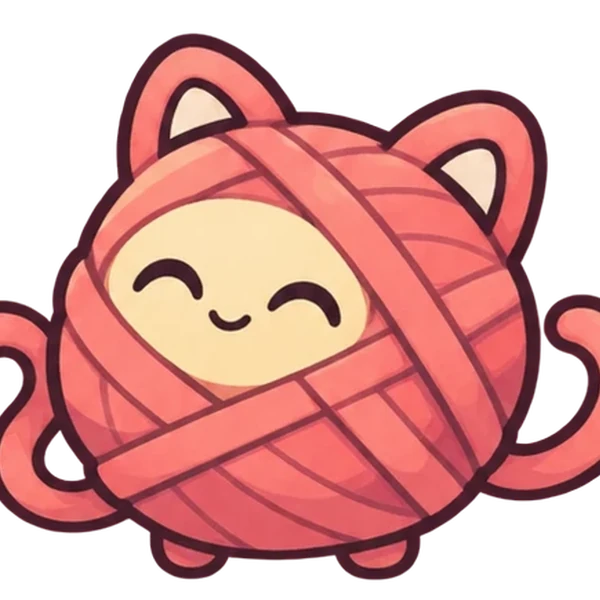
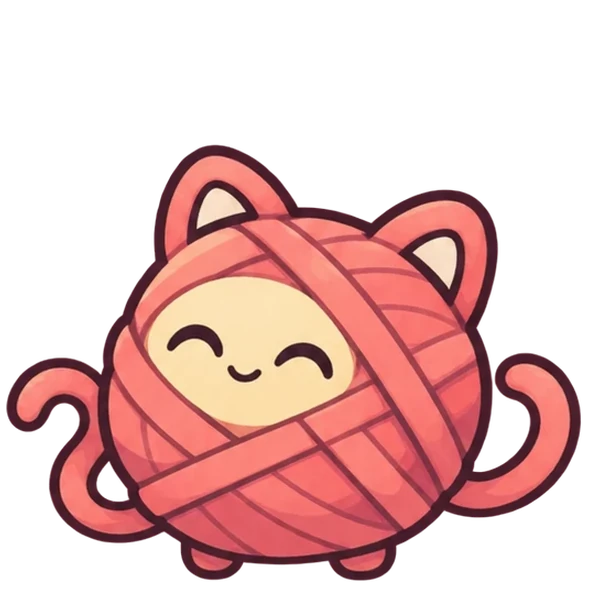
Madeja: recorte entero, paseo en el barrio y animaciones; en el huevo no hay casa ni se construye
Claude-Session: https://claude.ai/code/session_019izKFDyaFB4agFniHN4Ext

diff --git a/src/pantallas/Casa.tsx b/src/pantallas/Casa.tsx
@@ -4,14 +4,14 @@ import type React from 'react'
 // Todo lo que se mueve es código.
 import { useEffect, useLayoutEffect, useRef, useState, type CSSProperties } from 'react'
 import { createPortal } from 'react-dom'
-import { AREAS, COMPANEROS, ESCENAS, HISTORIAS, ORDEN_COMPANEROS, MATERIALES, OBJETOS_CASA, UI, type AreaId, type CompaneroId, type ObjetoCasa } from '../contenido'
+import { AREAS, COMPANEROS, ESCENAS, HISTORIAS, ORDEN_COMPANEROS, MATERIALES, OBJETOS_CASA, PARCELAS, PROPORCION_BARRIO, UI, type AreaId, type CompaneroId, type ObjetoCasa } from '../contenido'
 import { FRASES_VISITA, type Huella } from '../contenido/situaciones'
 import type { Partida } from '../logica/partida'
 import { estadoRincon } from '../logica/reglas'
 import { momentoDelDia } from '../logica/momento'
 import { construido, disponibles, faltan, proyectosDe, proyectosVisibles, puedeConstruir } from '../logica/casa'
 import { crecioSinVer, huevoDisponible, progreso } from '../logica/etapas'
-import { estadoDelMes, faltanParaEclosion, mesActual } from '../logica/meses'
+import { estadoDelMes, faltanParaEclosion, mesActual, mesesDe } from '../logica/meses'
 import { decisionPendiente, dondeGregorio, fraseDeSituacion, huellasEn, microDeHoy, visitante } from '../logica/situaciones'
 import { sfx } from '../sonido'
 import { BotonConstruir } from '../componentes/BotonConstruir'
@@ -39,6 +39,8 @@ import { useJuego } from '../estado/juego'
 import { IconoMaterial } from '../componentes/IconoMaterial'
 
 const ANCHO_HUEVO = 30
+/** Cuánto se acerca el mapa del barrio alrededor de la parcela mientras el vecino está en el huevo (% del ancho de la escena). */
+const ANCHO_NIDO = 330
 /** De dónde sale una nota: el vecino, quien está de visita o un objeto de la casa (su id). */
 type Origen = 'vecino' | 'visita' | string
 const SEGUNDOS_BOCADILLO = 7
@@ -277,6 +279,7 @@ export function Casa({ partida, ahora, dueno, visita = false, onBarrio, onNoveda
   // Mientras no ha salido, en su sitio está el huevo.
   const conHuevo = estado === 'huevo' || (estado === 'naciendo' && (nacer === null || nacer === 'rompiendo'))
   const anchoNox = conHuevo ? ANCHO_HUEVO : ANCHO_NOX[etapaVista]
+  const parcela = PARCELAS[Math.max(0, mesesDe(partida).findIndex((m) => m.companero === DUENO))] ?? PARCELAS[0]
   const altoNox = alto(anchoNox, 1)
 
   // De noche, el tinte se aclara alrededor del vecino: el fondo sigue oscuro y él conserva sus contornos.
@@ -293,11 +296,20 @@ export function Casa({ partida, ahora, dueno, visita = false, onBarrio, onNoveda
   return (
     <main ref={ref} className="escena-vecindario relative mx-auto h-dvh max-w-[430px] overflow-hidden select-none bg-[#c9bf7f]">
       <div className="absolute" style={escenario} onClick={() => setHabla(null)}>
-        <img src={rutaArte(`casa/${DUENO}/fondo`)} alt="" className="absolute inset-0 h-full w-full" draggable={false} />
+        {/* Mientras está en el huevo no hay casa todavía: se ve su parcela del barrio, con la hierba. Al nacer, aparece la casa. */}
+        {conHuevo ? (
+          <div aria-hidden className="absolute inset-0 overflow-hidden">
+            <img src={rutaArte('barrio/mapa')} alt="" draggable={false} className="absolute max-w-none"
+              style={{ width: `${ANCHO_NIDO}%`, left: `${50 - (parcela.x / 100) * ANCHO_NIDO}%`, top: `${NOX.y - 8 - ((parcela.y / 100) * ANCHO_NIDO * ew) / PROPORCION_BARRIO / eh}%` }} />
+            <div className="absolute inset-0 bg-[radial-gradient(ellipse_at_50%_62%,transparent_25%,#2e203055_80%)]" />
+          </div>
+        ) : (
+          <img key="fondo" src={rutaArte(`casa/${DUENO}/fondo`)} alt="" className={`absolute inset-0 h-full w-full ${nacer ? 'animate-aparecer' : ''}`} draggable={false} />
+        )}
         {vivo && !ordenando && <VidaDeCasa vecino={DUENO} />}
 
-        {huellas.map((hu) => <HuellaEnEscena quieta={ordenando} key={hu.id} h={hu} ew={ew} nueva={huellaNueva(partida, hu.id, ahora)} onTocar={(e) => { if (hu.toque) globoEn(e, hu.toque); ajustar((p) => verHuella(p, hu.id)) }} />)}
-        {capas.map(({ o }) => o ? <Objeto key={o.id} o={o} nuevo={recien === o.id} ew={ew} eh={eh} frases={o.id === 'aspiradora' && DUENO === 'nox' ? TOQUES_GREGORIO_EN_NOX : TOQUES_OBJETO[o.id] ?? [o.descripcion]}
+        {!conHuevo && huellas.map((hu) => <HuellaEnEscena quieta={ordenando} key={hu.id} h={hu} ew={ew} nueva={huellaNueva(partida, hu.id, ahora)} onTocar={(e) => { if (hu.toque) globoEn(e, hu.toque); ajustar((p) => verHuella(p, hu.id)) }} />)}
+        {capas.filter(({ o }) => !conHuevo || !o).map(({ o }) => o ? <Objeto key={o.id} o={o} nuevo={recien === o.id} ew={ew} eh={eh} frases={o.id === 'aspiradora' && DUENO === 'nox' ? TOQUES_GREGORIO_EN_NOX : TOQUES_OBJETO[o.id] ?? [o.descripcion]}
           ordenando={ordenando} movible={movible(o)} arrastrando={arrastre?.id === o.id}
           onMover={(x, y) => setArrastre({ id: o.id, ...encajar(o, x, y) })}
           onSoltar={(x, y, punto) => {
@@ -344,7 +356,7 @@ export function Casa({ partida, ahora, dueno, visita = false, onBarrio, onNoveda
             <img src={`/arte/visitantes/${v.quien}.webp`} alt="" draggable={false} className="block w-full" />
           </button>
         ) })()}
-        {deVisita && sitioVisita(DUENO, deVisita) && (() => { const sv = sitioVisita(DUENO, deVisita)!; return (
+        {!conHuevo && deVisita && sitioVisita(DUENO, deVisita) && (() => { const sv = sitioVisita(DUENO, deVisita)!; return (
           <button type="button" aria-label={UI.casa.deVisita(COMPANEROS[deVisita].nombre)}
             onClick={(e) => { e.stopPropagation(); const l = FRASES_VISITA[deVisita] ?? []; if (l.length) globoEn(e, `${COMPANEROS[deVisita].nombre}: «${l[toquesSit % l.length]}»`); setToquesSit((n) => n + 1) }}
             className={`absolute z-10 ${ordenando ? 'pointer-events-none' : ''}`} style={{ left: `${sv.x}%`, top: `${sv.y}%`, width: `${sv.ancho}%`, transform: 'translate(-50%, -100%)' }}>
@@ -368,7 +380,7 @@ export function Casa({ partida, ahora, dueno, visita = false, onBarrio, onNoveda
 
         {/* Luces que laten (por encima del tinte, para que de noche brillen). */}
         <div aria-hidden className="pointer-events-none absolute inset-0 z-20 mix-blend-screen">
-          {LUCES_FONDO.map((l, i) => <Luz key={i} x={l.x} y={l.y} tam={noche ? 34 : 22} color="#ffcf73" retraso={i * 0.7} />)}
+          {!conHuevo && LUCES_FONDO.map((l, i) => <Luz key={i} x={l.x} y={l.y} tam={noche ? 34 : 22} color="#ffcf73" retraso={i * 0.7} />)}
           {objetos.filter((o) => o.luz).map((o) => {
             const a = alto(o.sitio.ancho, o.proporcion)
             const x = o.sitio.x + ((o.luz!.x - 50) / 100) * o.sitio.ancho
@@ -493,7 +505,8 @@ export function Casa({ partida, ahora, dueno, visita = false, onBarrio, onNoveda
         {/* Abajo: la ficha del vecino («i») a la izquierda y construir a la derecha. */}
         <div className="flex items-end justify-between">
           <BotonRedondo etiqueta={UI.casa.verFicha(conHuevo ? UI.casa.huevo : COMPANEROS[DUENO].nombre)} onToque={() => { setFicha(true); ajustar((p) => verFicha(p, DUENO)) }} className="mb-1"><Icono d={ICONOS.info} />{!conHuevo && fichaNueva(partida, DUENO) && <Punto className="absolute -top-0.5 -right-0.5" />}</BotonRedondo>
-          <BotonConstruir etiqueta={UI.casa.construir} listos={listos} onToque={() => setHoja(true)} />
+          {/* Sin casa todavía (en el huevo), no hay nada que construir. */}
+          {conHuevo ? <span /> : <BotonConstruir etiqueta={UI.casa.construir} listos={listos} onToque={() => setHoja(true)} />}
         </div>
       </div>
 

diff --git a/src/estilos/vida-de-casa.css b/src/estilos/vida-de-casa.css
@@ -232,3 +232,48 @@
   .vida-de-casa, .efecto-de-objeto { display: none; }
   .anim-gesto-de-objeto[data-gesto] { animation: none; }
 }
+
+/* Madeja: un ovillo cruza la madriguera rodando y deja hilo; ella escucha inclinándose y, al tocarla, brinca. */
+.paseo-de-ovillo { position: absolute; left: 0; width: 100%; top: 80%; opacity: 0; animation: ovillo-en-fuga 30s -9s linear infinite; }
+.paseo-de-ovillo img { width: 6.5%; margin-left: 12%; transform: translate(-50%, -100%); animation: ovillo-rueda 30s -9s linear infinite; filter: drop-shadow(0 2px 1px #5d42274d); }
+.hilo-de-ovillo { position: absolute; top: -3px; left: 0; width: 12%; height: 2px; border-radius: 2px; background: #e8737a; transform-origin: 100% 50%; animation: hilo-se-estira 30s -9s linear infinite; }
+@keyframes ovillo-en-fuga {
+  0%, 20% { opacity: 0; transform: translateX(0); }
+  23%, 52% { opacity: 1; }
+  45% { transform: translateX(55%); }
+  56%, 100% { opacity: 0; transform: translateX(72%); }
+}
+@keyframes ovillo-rueda { 20% { rotate: 0deg; } 45% { rotate: 540deg; } 56% { rotate: 700deg; } }
+@keyframes hilo-se-estira { 20% { scale: 0 1; } 45% { scale: 4.6 1; } 56%, 100% { scale: 6 1; } }
+
+@keyframes madeja-escucha {
+  0%, 30%, 100% { transform: rotate(0); }
+  38%, 48% { transform: rotate(-5deg) translateX(-1.5%); }
+  56% { transform: rotate(0); }
+  66%, 76% { transform: rotate(5deg) translateX(1.5%); }
+  84% { transform: rotate(0); }
+}
+.anim-madeja-escucha { animation: madeja-escucha 9s ease-in-out infinite; transform-origin: 50% 96%; }
+@keyframes madeja-brinco {
+  0% { transform: none; }
+  25% { transform: translateY(-9%) scale(1.04, .97) rotate(-4deg); }
+  50% { transform: translateY(0) scale(1.06, .92); }
+  70% { transform: translateY(-3%) rotate(3deg); }
+  100% { transform: none; }
+}
+.anim-madeja-brinco { animation: madeja-brinco 700ms ease-out, madeja-escucha 9s 700ms ease-in-out infinite; transform-origin: 50% 96%; }
+[data-dormido].anim-madeja-escucha { animation-duration: 16s; }
+.hebra-de-madeja {
+  position: absolute; left: 68%; top: 48%; width: 20%; aspect-ratio: 1; border-radius: 50%;
+  border: 3px solid #e8737a; border-left-color: transparent; border-bottom-color: transparent;
+  animation: hebra-se-enrolla 900ms ease-out both; pointer-events: none;
+}
+@keyframes hebra-se-enrolla {
+  0% { opacity: 0; transform: translate(0, 0) rotate(0) scale(.4); }
+  30% { opacity: 1; }
+  100% { opacity: 0; transform: translate(40%, -60%) rotate(320deg) scale(1); }
+}
+@media (prefers-reduced-motion: reduce) {
+  .paseo-de-ovillo, .hebra-de-madeja { display: none; }
+  .anim-madeja-escucha, .anim-madeja-brinco { animation: none; }
+}

diff --git a/src/componentes/VidaDeCasa.tsx b/src/componentes/VidaDeCasa.tsx
@@ -4,10 +4,11 @@ import { rutaArte } from '../arte/manifiesto'
 const SALCHICHA = '/arte/curiosidades/salchicha.webp'
 const TORNILLO = '/arte/curiosidades/tornillo.webp'
 const SEMILLA = '/arte/curiosidades/semilla.webp'
+const OVILLO = '/arte/curiosidades/ovillo.webp'
+const CARTA = '/arte/curiosidades/carta.webp'
 
 /** Pequeñas escenas de fondo. Se dibujan detrás de lo que se puede tocar. */
 export function VidaDeCasa({ vecino }: { vecino: CompaneroId }) {
-  if (vecino === 'madeja') return null
   return (
     <div aria-hidden className="vida-de-casa pointer-events-none absolute inset-0" data-casa={vecino}>
       {vecino === 'nox' && (
@@ -26,6 +27,12 @@ export function VidaDeCasa({ vecino }: { vecino: CompaneroId }) {
         <div className="paseo-de-tornillo">
           <img src={TORNILLO} alt="" draggable={false} />
           <span className="sombra-de-escenita" />
+        </div>
+      )}
+      {vecino === 'madeja' && (
+        <div className="paseo-de-ovillo">
+          <img src={OVILLO} alt="" draggable={false} />
+          <span className="hilo-de-ovillo" />
         </div>
       )}
       {vecino === 'bruma' && (
@@ -50,6 +57,16 @@ export const GESTOS_DE_OBJETO: Partial<Record<string, string>> = {
   tetera: 'vapor',
   campanillas: 'campanillas',
   hamaca: 'hamaca',
+  // Madeja
+  mecedora: 'hamaca',
+  guirnalda: 'campanillas',
+  'farol-punto': 'campanillas',
+  telefono: 'reloj',
+  cesto: 'ovillo',
+  buzon: 'carta',
+  sofa: 'rebote',
+  'tetera-rosa': 'vapor',
+  album: 'libros',
 }
 
 /** Los efectos van en la caja del propio objeto y siguen su posición si se mueve. */
@@ -63,8 +80,9 @@ export function EfectoDeObjeto({ gesto, toques }: { gesto: string; toques: numbe
     )
   }
   if (!toques) return null
-  if (gesto === 'semilla' || gesto === 'tornillo') {
-    return <img key={toques} aria-hidden className="efecto-de-objeto objeto-escupe" src={gesto === 'semilla' ? SEMILLA : TORNILLO} alt="" draggable={false} />
+  if (gesto === 'semilla' || gesto === 'tornillo' || gesto === 'ovillo' || gesto === 'carta') {
+    const arte = { semilla: SEMILLA, tornillo: TORNILLO, ovillo: OVILLO, carta: CARTA }[gesto]
+    return <img key={toques} aria-hidden className="efecto-de-objeto objeto-escupe" src={arte} alt="" draggable={false} />
   }
   if (gesto === 'chispas' || gesto === 'campanillas') {
     return <span key={toques} aria-hidden className="efecto-de-objeto destellos-de-objeto"><i /><i /><i /></span>

diff --git a/src/componentes/FiguraVecino.tsx b/src/componentes/FiguraVecino.tsx
@@ -3,6 +3,7 @@
 // - Nox: respira, da saltitos impacientes y, al tocarlo, salta.
 // - Tofu: el brote se adelanta al cuerpo al tocarlo. De adulto solo deja caer unas hojas.
 // - Bruma: flota arriba y abajo; al tocarla se esponja y vuelve a flotar. Dormida, flota más despacio.
+// - Madeja: escucha inclinándose a un lado y a otro; al tocarla, brinca y se le escapa una hebra.
 // - Tuerca: respira y da algún tic; su engranaje gira a ratos. Al tocarlo, respingo y engranaje a toda prisa.
 import type { CSSProperties } from 'react'
 import type { CompaneroId } from '../contenido'
@@ -39,6 +40,16 @@ export function FiguraVecino({ c, etapa, expresion, reaccion, ladoToque, ladoMac
         <span aria-hidden className={`absolute rounded-full ${tocado ? 'anim-antena-prisa' : 'anim-antena'}`}
           style={{ left: `${antena.x}%`, top: `${antena.y}%`, width: `${antena.tam}%`, aspectRatio: '1', transform: 'translate(-50%, -50%)',
             background: 'radial-gradient(circle, #fff8c8 0%, #ffd34ecc 45%, transparent 72%)' }} />
+      </span>
+    )
+  }
+  if (c === 'madeja') {
+    // Madeja: se inclina a un lado y a otro, como quien escucha detrás de una puerta; al tocarla, da un brinco de
+    // emoción y se le escapa una hebra que se enrolla sola.
+    return (
+      <span key={reaccion} data-dormido={dormido || undefined} className={`relative block ${tocado && !dormido ? 'anim-madeja-brinco' : 'anim-madeja-escucha'}`}>
+        <img src={src} alt="" draggable={false} className="anim-respirar block w-full" />
+        {tocado && !dormido && <span aria-hidden className="hebra-de-madeja" />}
       </span>
     )
   }

diff --git a/src/contenido/casa.ts b/src/contenido/casa.ts
@@ -33,12 +33,12 @@ export const ESCENAS: Partial<Record<CompaneroId, Escena>> = {
     luces: [{ x: 16.5, y: 19 }, { x: 92, y: 34.5 }],
     suelo: [{ x: [12, 88], y: [52, 84] }] },
   // Bruma flota sobre el estanque: sus «pies» son el final de su cola de niebla.
-  bruma: { proporcion: 941 / 1672, pies: { x: 50, y: 70 }, anchos: [34, 31, 31],
+  bruma: { proporcion: 941 / 1672, pies: { x: 50, y: 70 }, anchos: [41.3, 34.4, 33.9],
     luces: [{ x: 20.5, y: 27 }, { x: 67.5, y: 13 }],
     // La orilla, el embarcadero y los juncos del agua.
     suelo: [{ x: [10, 32], y: [39, 47] }, { x: [32, 66], y: [37.5, 41.5] }, { x: [68, 90], y: [44, 56] }] },
   // La madriguera de lana de Madeja: suelo de madera con alfombra trenzada.
-  madeja: { proporcion: 941 / 1672, pies: { x: 50, y: 73 }, anchos: [36, 36, 36],
+  madeja: { proporcion: 941 / 1672, pies: { x: 50, y: 73 }, anchos: [45.5, 45.3, 45.6],
     luces: [{ x: 22, y: 16.5 }, { x: 61, y: 25 }],
     suelo: [{ x: [12, 88], y: [56, 84] }] },
 }
@@ -279,8 +279,8 @@ export const VISITA: Partial<Record<CompaneroId, { x: number; y: number; ancho: 
   nox: { x: 82, y: 56, ancho: 22 },
   tuerca: { x: 75, y: 59, ancho: 21 },
   tofu: { x: 76, y: 62, ancho: 20 },
-  bruma: { x: 76, y: 60, ancho: 21 },
-  madeja: { x: 76, y: 61, ancho: 18 },
+  bruma: { x: 76, y: 60, ancho: 24 },
+  madeja: { x: 76, y: 61, ancho: 23 },
 }
 
 /** En el estanque de Bruma no hay suelo: las visitas se sientan en el embarcadero. */

diff --git a/src/logica/casa.ts b/src/logica/casa.ts
@@ -4,6 +4,7 @@ import { AREAS, OBJETOS_CASA, PROYECTOS_BARRIO, type AreaId, type CompaneroId, t
 import type { Ofrenda, Partida } from './partida'
 import { TOPE_DIARIO } from './reglas'
 import { dia } from './fechas'
+import { nacido } from './etapas'
 
 export type Materiales = Record<AreaId, number>
 const ceros = (): Materiales => Object.fromEntries(Object.keys(AREAS).map((a) => [a, 0])) as Materiales
@@ -85,7 +86,8 @@ export function proyectosBarrioVisibles(p: Partida) {
 export function construir(p: Partida, id: string, ahora: Date, barrioDisponible = false): Partida | null {
   const o = OBJETOS_CASA.find((x) => x.id === id)
   const b = PROYECTOS_BARRIO.find((x) => x.id === id)
-  const ok = o ? puedeConstruir(p, o, ahora)
+  // Sin casa no hay obras: para un vecino que aún está en el huevo no se construye nada.
+  const ok = o ? puedeConstruir(p, o, ahora) && nacido(p, o.companero, ahora)
     : b ? barrioDisponible && proyectosBarrioVisibles(p).some((x) => x.id === b.id) && !construido(p, b.id) && Object.keys(faltan(p, b, ahora)).length === 0
     : false
   if (!ok) return null

diff --git a/src/logica/casa.test.ts b/src/logica/casa.test.ts
@@ -55,4 +55,12 @@ describe('proyectos', () => {
     const ids = [...OBJETOS_CASA, ...PROYECTOS_BARRIO].map((o) => o.id)
     expect(new Set(ids).size).toBe(ids.length)
   })
+
+  it('para un vecino que aún está en el huevo no se construye nada', () => {
+    // Partida con Nox nacido y Tuerca todavía en el huevo (sin sus tres retos).
+    const p0 = con(con(nueva(), 'orden', '2026-01-05', 3), 'orden', '2026-01-06', 3)
+    const p = { ...p0, meses: [{ companero: 'nox' as const, inicio: en('2026-01-05', 8).toISOString(), presentado: en('2026-01-05', 9).toISOString() },
+      { companero: 'tuerca' as const, inicio: en('2026-01-07', 20).toISOString() }] }
+    expect(construir(p, 'caja', en('2026-01-07', 21))).toBeNull()
+  })
 })

diff --git a/src/contenido/barrio.ts b/src/contenido/barrio.ts
@@ -78,4 +78,10 @@ export const PASEOS_BARRIO: Partial<Record<CompaneroId, {
     segundos: 54, desfase: 21,
     frase: 'He dejado un poco de niebla en el agua. Se seca sola.',
   },
+  madeja: {
+    puntos: [punto(69, 32.5), punto(65.5, 33.5), punto(62.5, 36), punto(61, 40), punto(64, 44.5)],
+    descanso: punto(63, 36),
+    segundos: 46, desfase: 26,
+    frase: 'Voy a la plaza a enterarme de algo. Si no hay nada, me lo invento.',
+  },
 }

diff --git a/herramientas/recortar_lamina.py b/herramientas/recortar_lamina.py
@@ -119,7 +119,8 @@ def main() -> None:
         cajas = [np.nonzero(cd[:, :, 3] > 0) for cd in celdas]
         y0 = min(ys.min() for ys, _ in cajas); y1 = max(ys.max() for ys, _ in cajas) + 1
         x0 = min(xs.min() for _, xs in cajas); x1 = max(xs.max() for _, xs in cajas) + 1
-        escala = LADO * ALTO_PERSONAJE / (y1 - y0)
+        # Que quepa entero: por la altura y también por la anchura (los muy anchos, como Madeja, se salían).
+        escala = min(LADO * ALTO_PERSONAJE / (y1 - y0), LADO * 0.98 / (x1 - x0))
         for celda, nombre in zip(celdas, nombres):
             img = Image.fromarray(celda[y0:y1, x0:x1])
             img = img.resize((round(img.width * escala), round(img.height * escala)), Image.LANCZOS)

diff --git a/docs/diseno-vecindario.md b/docs/diseno-vecindario.md
@@ -460,3 +460,9 @@ Decidida por Javi a partir de la auditoría de Z.ai (informe de jugador, 17 día
 - **El baúl:** en «Ordenar la casa», abajo en el centro. Arrastra un objeto encima (el baúl se abre al acercarlo) y se guarda: deja de verse en la casa y en las fotos, pero sigue construido y cuenta para todo. Tocando el baúl ves lo guardado y lo sacas con un toque (vuelve a su sitio). Gregorio no se guarda.
 - **Visitantes de verdad:** cuando el último vecino en llegar lleva días sin nada de su área (fase 3), se cuela un visitante que se ve en la escena: el cuervo (con una bufanda robada) en casa de Nox y de Madeja, la polilla en la de Tofu y el caracol (con una mochila de cosas ajenas) en la de Bruma y la de Tuerca. Al tocarlo habla. Se va solo con unos pocos retos, como siempre.
 - **Madeja:** seis proyectos más (tetera rosa, costurero, sofá de dos plazas, marco de fotos, alfombra de retales y farolillo de punto, colgado) y ocho curiosidades de sorpresa al tachar retos de Vínculos (botón, dedal, calcetín suelto, carta lacrada, foto en blanco, ovillo de colores, aguja con hebra y llave con lazo).
+
+### Arreglos de Madeja y del huevo (20/11/2026, rama `dev/arreglos-madeja`)
+- **Recorte:** la herramienta escalaba los personajes solo por la altura y a los muy anchos (Madeja, con sus hebras; Bruma joven) se les cortaban los lados. Ahora caben enteros; se ha vuelto a recortar a las dos y se ha ajustado su tamaño en escena para que midan lo mismo.
+- **En el huevo no hay casa:** mientras el vecino está en el huevo, al entrar se ve su parcela del barrio (hierba) con el huevo, sin objetos, sin visitas y sin botón de construir. La casa aparece al nacer. Además, la lógica no deja construir para un vecino que no ha nacido.
+- **Madeja en el barrio:** pasea de su casa a la plaza (antes no tenía recorrido).
+- **Animaciones de Madeja:** escucha inclinándose a un lado y a otro; al tocarla brinca y se le escapa una hebra; un ovillo cruza la madriguera rodando y dejando hilo; sus objetos reaccionan al tocarlos (la mecedora se mece, el cesto suelta un ovillo, el buzón una carta, el teléfono tiembla, la tetera echa vapor…).
